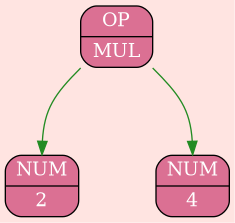
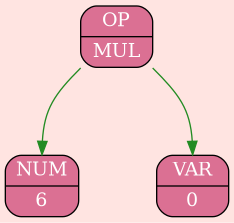
added constant folding v1

diff --git a/src/Diff.cpp b/src/Diff.cpp
@@ -30,7 +30,7 @@ void Differentiator(DiffCtx_t *DiffCtx, TreeLogCtx_t *TreeLogCtx, LatexLogCtx_t 
         scanf("%s", buf);
         if (buf[0] == 'q')
             return;
-        
+
         ClearBuf();
         printf("\n");
         Problem_t *Problem = NULL;
@@ -43,7 +43,8 @@ void Differentiator(DiffCtx_t *DiffCtx, TreeLogCtx_t *TreeLogCtx, LatexLogCtx_t 
 
         char *temp = buf;
         BuildFromPreOrder(Problem->Expression, Problem->Expression->root, &temp);
-        
+        ConstantFolding(Problem->Expression, Problem->Expression->root);
+
         DiffCtx->ProblemTable[DiffCtx->num_problems] = Problem;
         //////
 
@@ -162,7 +163,7 @@ static CalcCase_t CalcCaseTable[] = {
 
 TreeElem_t Calc(Tree_t *Tree, TreeNode_t *Curr)
 {
-    switch(Curr->type)
+    switch((Type_t)Curr->type)
     {
         case OP:
             return CalcCaseTable[(Operator_t)Curr->data](Tree, Curr);
@@ -181,6 +182,61 @@ TreeElem_t Calc(Tree_t *Tree, TreeNode_t *Curr)
     }
 }
 
+TreeElem_t ConstantFolding(Tree_t *Tree, TreeNode_t *Curr)
+{
+    TreeElem_t LeftVal   = POIZON_VAL;
+    TreeElem_t RightVal  = POIZON_VAL; 
+    TreeElem_t Result    = POIZON_VAL;
+
+    switch((Type_t)Curr->type)
+    {
+        case OP:
+        {
+            if (Curr->left)
+                LeftVal  = ConstantFolding(Tree, Curr->left);
+            if (Curr->right)
+                RightVal = ConstantFolding(Tree, Curr->right);
+
+            if ((Curr->left &&  Curr->right && DblCmp(LeftVal, ERROR_VAL) != 0 && DblCmp(RightVal, ERROR_VAL) != 0)
+            ||  (Curr->left && !Curr->right && DblCmp(LeftVal, ERROR_VAL) != 0))
+            {
+                Result      = CalcCaseTable[(Operator_t)Curr->data](Tree, Curr);
+                Curr->type  = NUM;
+                Curr->data  = Result;
+                
+                if (Curr->left)
+                {
+                    TreeFree(Curr->left);
+                    Curr->left  = NULL;
+                }
+                if (Curr->right)
+                {
+                    TreeFree(Curr->right);
+                    Curr->right = NULL;
+                }
+
+                return Result;
+            }
+            
+            return ERROR_VAL;
+        }
+
+        case VAR:
+            return ERROR_VAL;
+
+        case NUM:
+            return Curr->data;
+
+        case UNKNOWN_TYPE:
+            return ERROR_VAL;
+
+        default:
+            return ERROR_VAL;
+    }
+
+    return Result;
+}
+
 typedef TreeNode_t* (*ComplexDiffCase_t)(Tree_t *Tree, const TreeNode_t *Curr);
 
 static const ComplexDiffCase_t ComplexDiffTable[] = {
@@ -196,7 +252,7 @@ static const ComplexDiffCase_t ComplexDiffTable[] = {
 
 TreeNode_t *Diff(Tree_t *Tree, const TreeNode_t *Curr)
 {
-    switch(Curr->type)
+    switch((Type_t)Curr->type)
     {
         case OP:
         return ComplexDiffTable[(Operator_t)Curr->data](Tree, Curr);
@@ -219,6 +275,7 @@ TreeNode_t *Diff(Tree_t *Tree, const TreeNode_t *Curr)
             return NULL;
     }
 }
+
 
 int DblCmp(TreeElem_t a, TreeElem_t b)
 {
@@ -395,4 +452,6 @@ void SlowPrintf(const char *fmt, ...)
         usleep(SLEEP_TIME);
     }
 }
+
+
 

diff --git a/include/Diff.h b/include/Diff.h
@@ -12,6 +12,7 @@ int GetVars(Tree_t *ExprTree);
 void Differentiator(DiffCtx_t *DiffCtx, TreeLogCtx_t *TreeLogCtx, LatexLogCtx_t *LatexLogCtx);
 void DifferentiatorDtor(DiffCtx_t *DiffCtx);
 
+TreeElem_t ConstantFolding(Tree_t *Tree, TreeNode_t *Curr);
 TreeElem_t Calc(Tree_t *Tree, TreeNode_t *Curr);
 int DblCmp(TreeElem_t a, TreeElem_t b);
 

diff --git a/Log/texdump_0.tex b/Log/texdump_0.tex
@@ -40,8 +40,9 @@ chto concretno ne ponyatno?
 
 \textbf{Problem 0}
 
-Expression: $({2})\cdot({4})=8$
+Expression: $({6})\cdot({x})$
 
+Derivative: $(({0})\cdot({x}))+(({6})\cdot({1}))$\medskip
 \begin{center}
 \Huge \textbf{Rebyat, Pereryv}
 \end{center}

diff --git a/src/Tree.cpp b/src/Tree.cpp
@@ -523,7 +523,7 @@ void PreOrderExpression(Tree_t *Tree, TreeNode_t *Curr, FILE *fp)
         default:
             ;
     }
-}
+} 
 
 void InOrderExpression(Tree_t *Tree, TreeNode_t *Curr, FILE *fp)
 {
